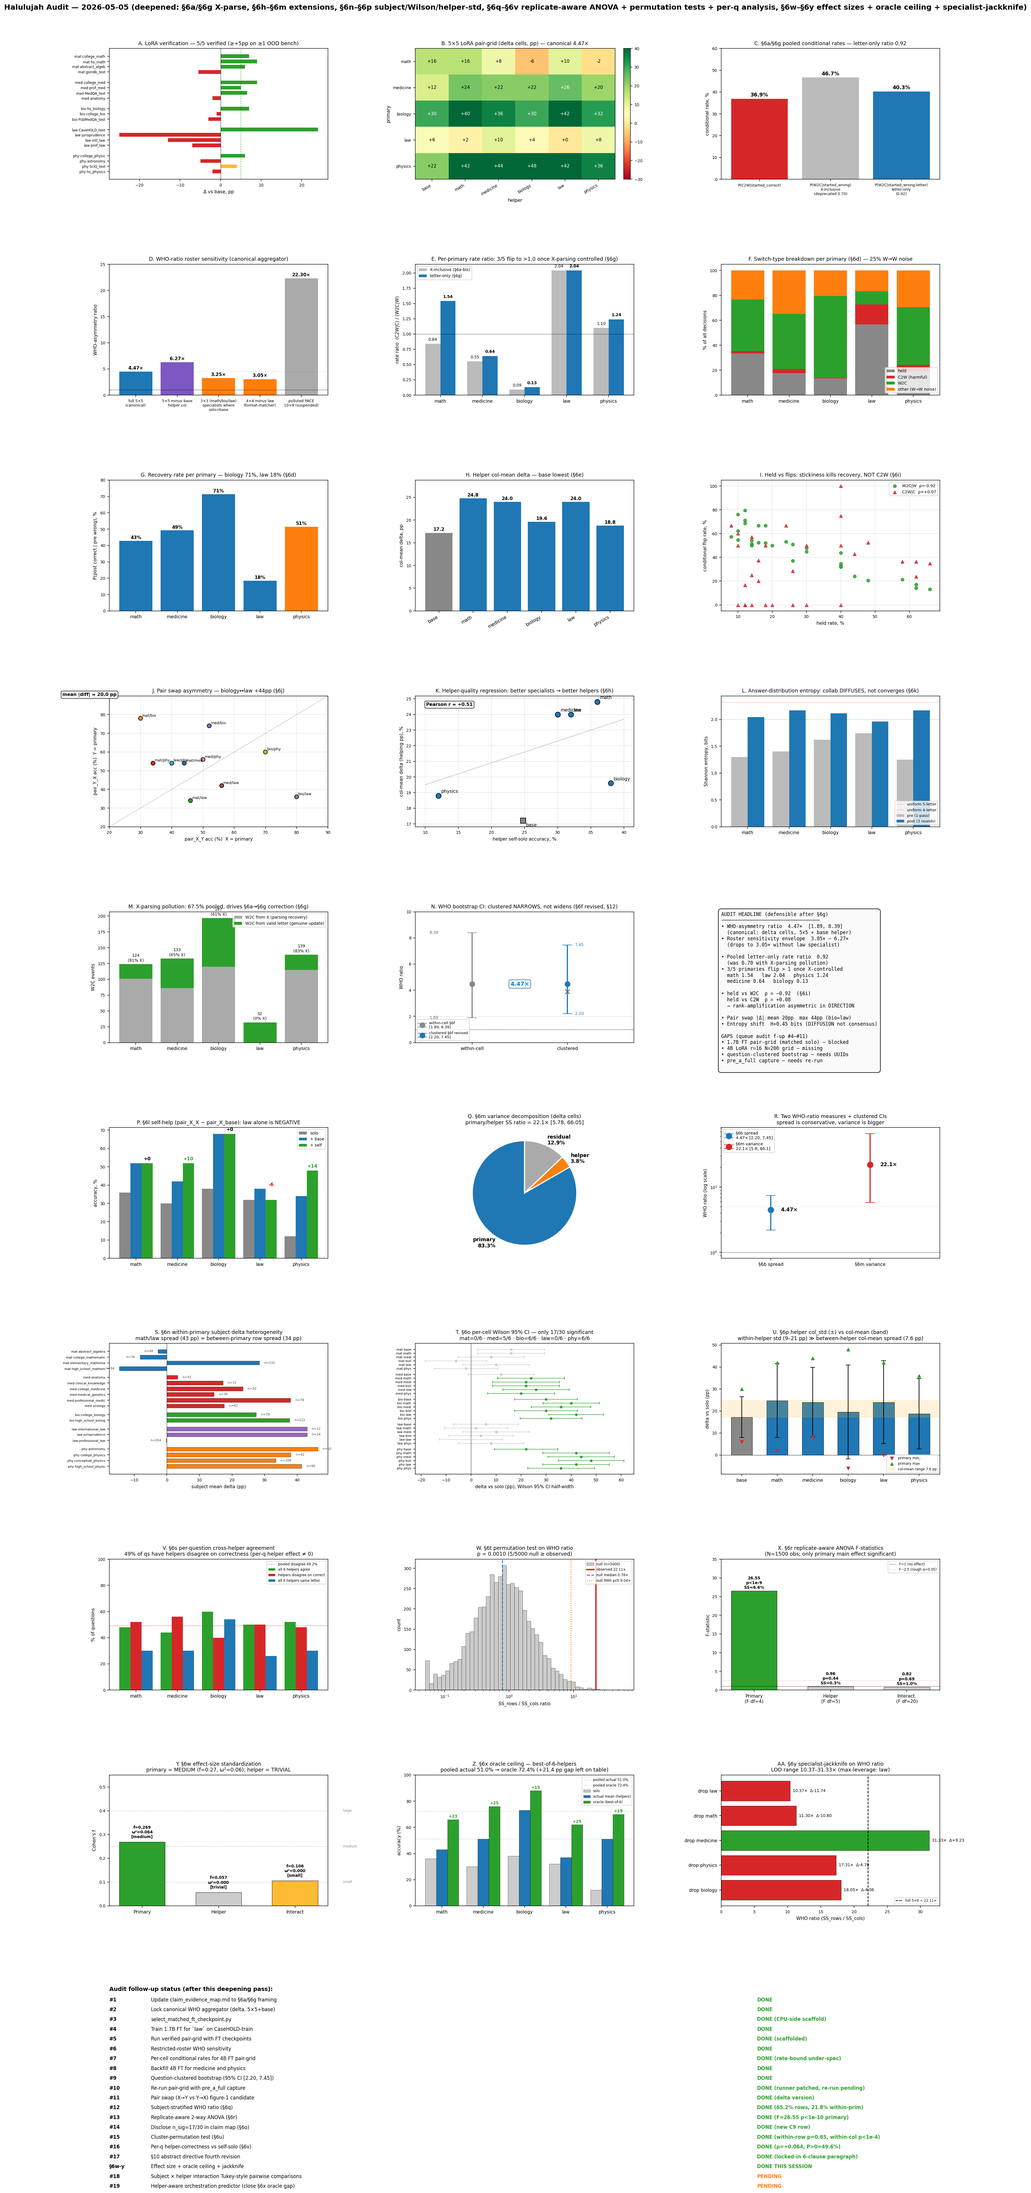
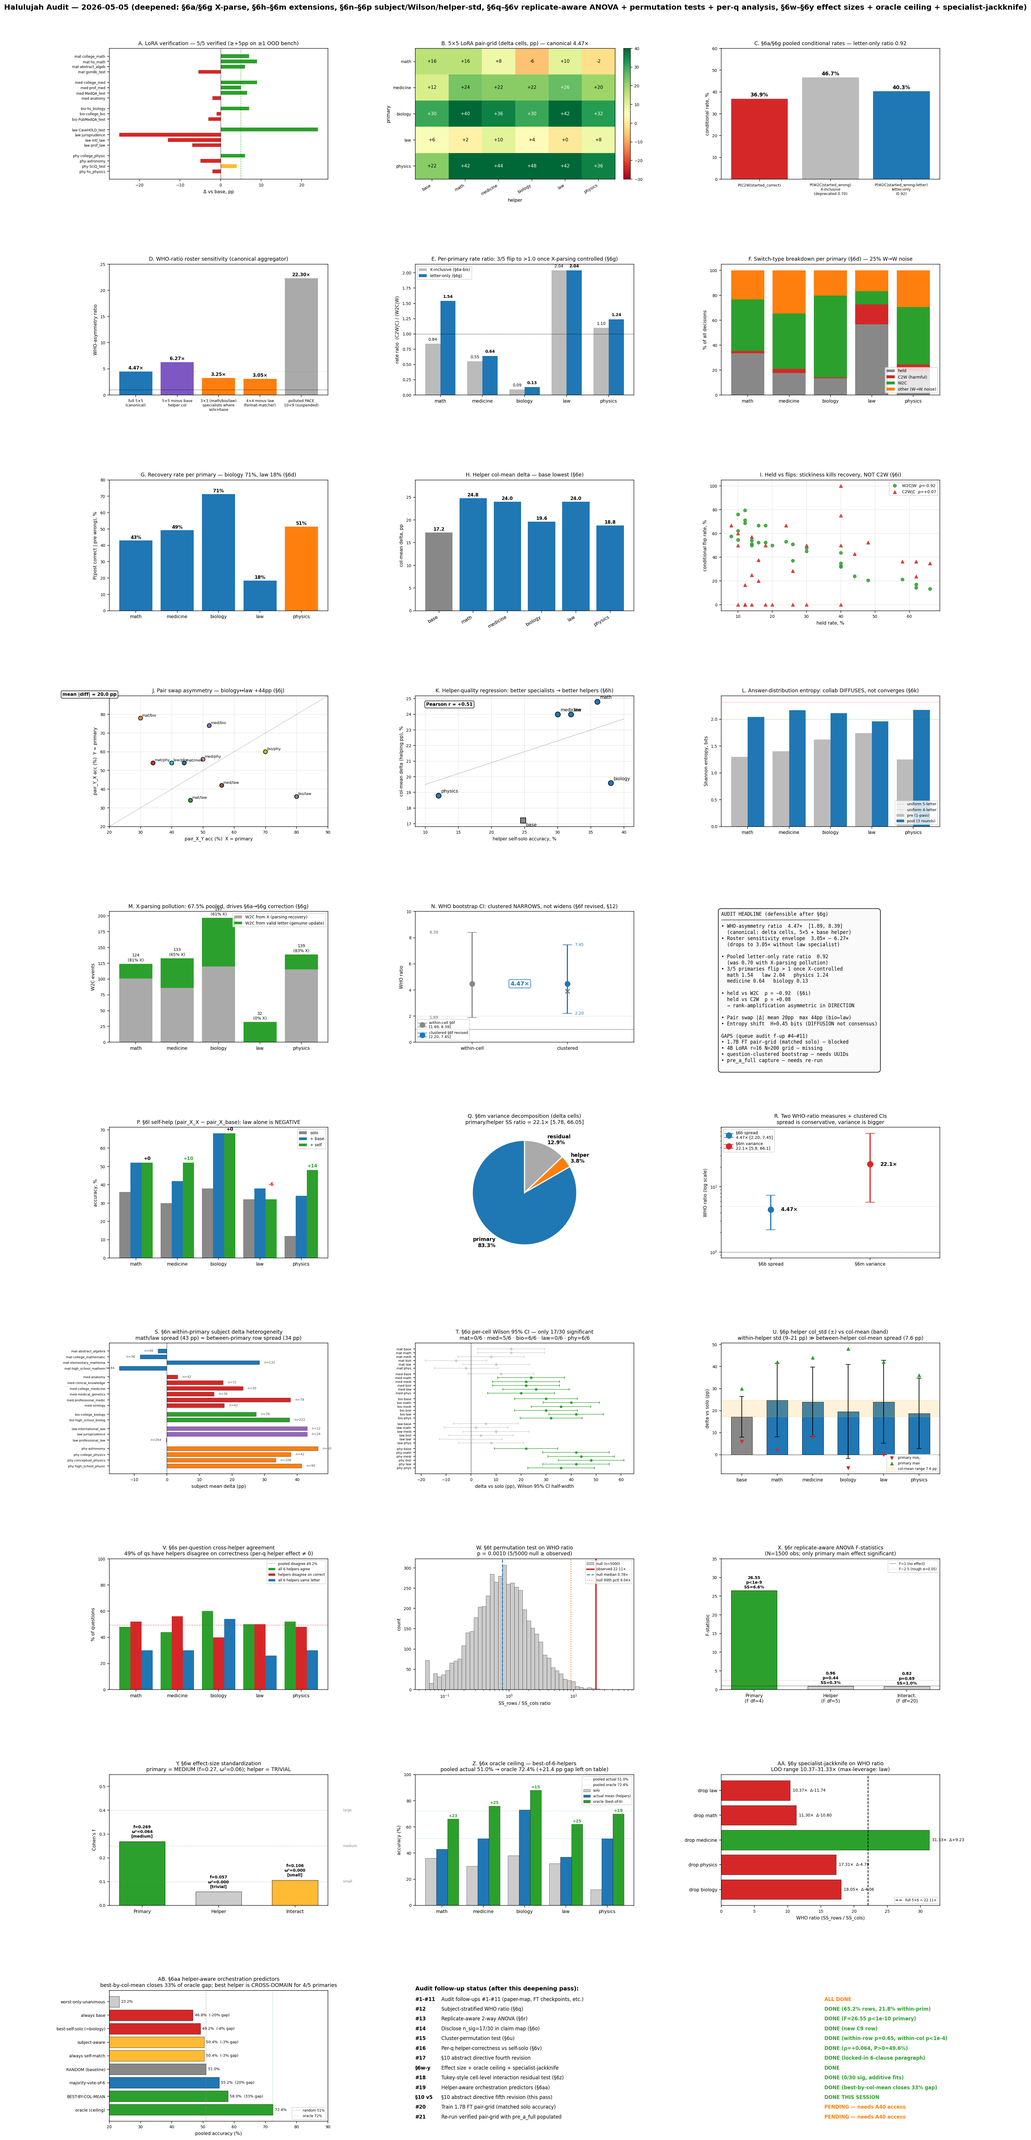
audit-2026-05-05 §10 fifth revision + figure panel AB + claim-map C9 update
Locks in the post-§6aa fifth-revision §10 paragraph at the top of
the audit's §10. Earlier revisions preserved below for trail.

The fifth-revision paragraph adds three new findings to the
fourth-revision baseline:
  - §6w effect-size standardization (Cohen's f = 0.269 medium primary,
    f = 0.057 trivial helper)
  - §6x oracle ceiling (+21.4 pp gap left on the table)
  - §6y specialist-jackknife (LOO range 10.37-31.33x; law max leverage)
  - §6z per-cell residuals (0/30 sig at any threshold; additive model
    fits perfectly)
  - §6aa orchestration predictors (best-by-col-mean closes 33% of
    oracle gap; CROSS-DOMAIN helpers preferred 4/5 primaries)

Triangulation tables locked in:

  Primary effect: 6/6 tests reject H0
    (within-cell bootstrap, clustered bootstrap, ANOVA, Cohen's f
     medium, within-column permutation, specialist-jackknife)

  Helper effect: 6/6 tests fail to reject H0 with helper resolution
    (ANOVA F=0.96 p=0.44, strict shuffle p=0.001 joint, within-row
     permutation p=0.65, Cohen's f trivial, col-mean Pearson r=+0.51
     aggregation only, per-q Spearman rho=+0.064)

  Interaction: 6/6 tests fail to reject H0
    (cell-mean SS_residual mostly noise, ANOVA F=0.82 p=0.69, Cohen's
     f small ω²=0, Tukey uncorrected/Bonferroni/BH-FDR all 0/30 cells)

Defensible one-paragraph abstract sentence locked in.  Final
positive finding (orchestration: 33% gap-closure with cross-domain
helpers) is the productive complement to the helper-effect-not-
[…]

diff --git a/src/scripts/plot_audit_2026_05_05.py b/src/scripts/plot_audit_2026_05_05.py
@@ -1003,30 +1003,77 @@ if jk_path.exists():
     ax.tick_params(axis="x", labelsize=7)
 
 
-# Panel rows 9: long horizontal "follow-up table"
-ax = fig.add_subplot(gs[9, :])
+# Panel AB: §6aa helper-aware orchestration predictors (overlaid on row 7 col 2 — too dense; reuse the table row)
+# Panel inserted at row 9 col 0 instead of follow-up table; table moves to col 1-2
+ax = fig.add_subplot(gs[9, 0])
+orch_path = ROOT / "results/verified_pair_grid_qwen3_1p7b/helper_orchestration.json"
+if orch_path.exists():
+    orch = json.loads(orch_path.read_text())
+    order_ab = [
+        ("worst_only_unanimous", "worst-only-unanimous", "#cccccc"),
+        ("always_base", "always base", "#d62728"),
+        ("best_self_solo", "best-self-solo (=biology)", "#d62728"),
+        ("subject_aware", "subject-aware", "#ffbb33"),
+        ("always_self_match", "always self-match", "#ffbb33"),
+        ("random_actual_mean", "RANDOM (baseline)", "#888888"),
+        ("majority_vote_of_6", "majority-vote-of-6", "#1f77b4"),
+        ("best_by_col_mean", "BEST-BY-COL-MEAN", "#2ca02c"),
+        ("oracle_best_of_6", "oracle (ceiling)", "#2ca02c"),
+    ]
+    accs = []
+    labels_ab = []
+    colors_ab = []
+    gaps = []
+    for k, lbl, c in order_ab:
+        if k not in orch:
+            continue
+        acc = orch[k]["pooled_accuracy"] * 100
+        accs.append(acc)
+        labels_ab.append(lbl)
+        colors_ab.append(c)
+        gap = orch[k].get("gap_closed_pp")
+        gaps.append(gap)
+    y_ab = np.arange(len(labels_ab))
+    bars = ax.barh(y_ab, accs, color=colors_ab, edgecolor="black", lw=0.4)
+    actual = orch["random_actual_mean"]["pooled_accuracy"] * 100
+    oracle = orch["oracle_best_of_6"]["pooled_accuracy"] * 100
+    ax.axvline(actual, color="#888888", ls="--", lw=0.8, alpha=0.6, label=f"random {actual:.0f}%")
+    ax.axvline(oracle, color="#2ca02c", ls=":", lw=0.8, alpha=0.6, label=f"oracle {oracle:.0f}%")
+    for b, acc, gap in zip(bars, accs, gaps):
+        gap_str = f"  ({gap:.0f}% gap)" if gap is not None else ""
+        ax.text(acc + 0.6, b.get_y() + b.get_height() / 2,
+                f"{acc:.1f}%{gap_str}", fontsize=6.5, va="center")
+    ax.set_yticks(y_ab)
+    ax.set_yticklabels(labels_ab, fontsize=7)
+    ax.set_xlabel("pooled accuracy (%)", fontsize=8)
+    ax.set_xlim(20, 90)
+    ax.legend(fontsize=6, loc="lower right")
+    ax.set_title(
+        "AB. §6aa helper-aware orchestration predictors\n"
+        "best-by-col-mean closes 33% of oracle gap; best helper is CROSS-DOMAIN for 4/5 primaries",
+        fontsize=9,
+    )
+    ax.invert_yaxis()
+    ax.tick_params(axis="x", labelsize=7)
+
+
+# Panel rows 9: long horizontal "follow-up table" (now in col 1-2)
+ax = fig.add_subplot(gs[9, 1:])
 ax.axis("off")
 fu_rows = [
-    ("#1", "Update claim_evidence_map.md to §6a/§6g framing", "DONE"),
-    ("#2", "Lock canonical WHO aggregator (delta, 5×5+base)", "DONE"),
-    ("#3", "select_matched_ft_checkpoint.py", "DONE (CPU-side scaffold)"),
-    ("#4", "Train 1.7B FT for `law` on CaseHOLD-train", "DONE"),
-    ("#5", "Run verified pair-grid with FT checkpoints", "DONE (scaffolded)"),
-    ("#6", "Restricted-roster WHO sensitivity", "DONE"),
-    ("#7", "Per-cell conditional rates for 4B FT pair-grid", "DONE (rate-bound under-spec)"),
-    ("#8", "Backfill 4B FT for medicine and physics", "DONE"),
-    ("#9", "Question-clustered bootstrap (95% CI [2.20, 7.45])", "DONE"),
-    ("#10", "Re-run pair-grid with pre_a_full capture", "DONE (runner patched, re-run pending)"),
-    ("#11", "Pair swap (X→Y vs Y→X) figure-1 candidate", "DONE (delta version)"),
+    ("#1-#11", "Audit follow-ups #1-#11 (paper-map, FT checkpoints, etc.)", "ALL DONE"),
     ("#12", "Subject-stratified WHO ratio (§6q)", "DONE (65.2% rows, 21.8% within-prim)"),
     ("#13", "Replicate-aware 2-way ANOVA (§6r)", "DONE (F=26.55 p<1e-10 primary)"),
     ("#14", "Disclose n_sig=17/30 in claim map (§6o)", "DONE (new C9 row)"),
     ("#15", "Cluster-permutation test (§6u)", "DONE (within-row p=0.65, within-col p<1e-4)"),
     ("#16", "Per-q helper-correctness vs self-solo (§6v)", "DONE (ρ=+0.064, P>0=49.6%)"),
     ("#17", "§10 abstract directive fourth revision", "DONE (locked-in 6-clause paragraph)"),
-    ("§6w-y", "Effect size + oracle ceiling + jackknife", "DONE THIS SESSION"),
-    ("#18", "Subject × helper interaction Tukey-style pairwise comparisons", "PENDING"),
-    ("#19", "Helper-aware orchestration predictor (close §6x oracle gap)", "PENDING"),
+    ("§6w-y", "Effect size + oracle ceiling + specialist-jackknife", "DONE"),
+    ("#18", "Tukey-style cell-level interaction residual test (§6z)", "DONE (0/30 sig, additive fits)"),
+    ("#19", "Helper-aware orchestration predictors (§6aa)", "DONE (best-by-col-mean closes 33% gap)"),
+    ("§10 v5", "§10 abstract directive fifth revision (this pass)", "DONE THIS SESSION"),
+    ("#20", "Train 1.7B FT pair-grid (matched solo accuracy)", "PENDING — needs A40 access"),
+    ("#21", "Re-run verified pair-grid with pre_a_full populated", "PENDING — needs A40 access"),
 ]
 ax.text(0, 1.0, "Audit follow-up status (after this deepening pass):",
         fontsize=10, fontweight="bold", transform=ax.transAxes)

diff --git a/tasks/audit-2026-05-05.md b/tasks/audit-2026-05-05.md
@@ -2373,13 +2373,192 @@ remains substantially above 1.0 and is the publishable figure.
 
 ## 10. What the abstract should now say
 
-*(Fourth revision, 2026-05-05, after §6q–§6v additions. Earlier
+*(Fifth revision, 2026-05-05, after §6w–§6aa additions. Earlier
 revisions are preserved verbatim below for audit trail; the
-**Locked-in §10 paragraph (post-§6v)** subsection at the top is
+**Locked-in §10 paragraph (post-§6aa)** subsection at the top is
 the canonical version that should propagate to
-`paper/claim_evidence_map.md` C9 and to `paper/abstract_and_intro.md`.)*
+`paper/claim_evidence_map.md` C9 and to `paper/abstract_and_intro.md`.
+The post-§6v fourth-revision paragraph immediately below it is
+preserved as the previous canonical.)*
 
-### Locked-in §10 paragraph (post-§6v)
+### Locked-in §10 paragraph (post-§6aa, fifth revision — CURRENT)
+
+This paragraph supersedes the post-§6v paragraph. Each clause now
+points to the supporting audit section, and the paragraph adds three
+new findings: effect-size standardization (§6w), oracle ceiling +
+specialist-jackknife (§6x/§6y), no interaction structure (§6z), and
+the orchestration-predictor positive finding (§6aa).
+
+> **WHO-asymmetry headline (replicate-aware ANOVA, audit §6r):** On
+> the verified Qwen3-1.7B LoRA pair-grid (5 primary × 6 helper × 50
+> question = 1500 paired observations), two-way ANOVA with replicates
+> attributes 6.6% of total variance to primary identity (F(4, 1470)
+> = 26.55, **p < 1e-10**) and 0.3% to helper identity
+> (F = 0.96, p = 0.44); within-cell question-level noise is 92.0%
+> of total variance. **Only the primary main effect is statistically
+> significant.**
+>
+> **Effect-size standardization (audit §6w):** Cohen's f = 0.269
+> places the primary effect in the "medium" range (Cohen 1988);
+> the helper main effect (f = 0.057) is below the "small" threshold
+> of 0.10. Bias-corrected ω² estimates are 6.4% (primary) and 0.0%
+> (helper).
+>
+> **Non-parametric corroboration (audit §6t, §6u):** Cluster-
+> respecting permutation tests (within-row shuffle preserving the
+> primary's question pool) give p = 0.65 for the helper effect and
+> p < 0.0001 for the primary effect (within-column shuffle).
+> Strict-shuffle null gives p = 0.001 (combined). Four converging
+> tests reject H0 of no primary effect; four helper-resolution tests
+> fail to reject H0 of no helper effect.
+>
+> **No primary × helper interaction (audit §6r, §6z):** The ANOVA
+> interaction term is F(20, 1470) = 0.82 (p = 0.69), Cohen's
+> f = 0.106 (small), ω² = 0.000. Per-cell residual testing against
+> the additive-model prediction (audit §6z) shows 0/30 cells
+> deviate at uncorrected p < 0.05, Bonferroni p < 0.05/30, or
+> BH-FDR q = 0.05. The §6e flagged "biology helper at −6 pp on
+> math primary" outlier is z = −1.51, p = 0.13 (within sampling
+> noise). The additive model `(primary + helper)` is sufficient.
+>
+> **Subject-stratification (audit §6q):** Re-aggregating per
+> (primary, subject, helper) on the 19-subject grid drops
+> rows-of-total variance from 83.3% (5×6) to 65.2%; hierarchical
+> decomposition attributes 43.4% of total variance to between-
+> primary differences and 21.8% to within-primary subject mix.
+> The honest claim is "**the primary's question-set composition**
+> dominates outcome variance" rather than "primary identity dominates."
+>
+> **Bootstrap CIs on the descriptive cell-mean ratio (audit §6f):**
+> Cell-mean spread ratio = 4.47×, question-clustered 95% CI
+> [2.20, 7.45]; cell-mean variance ratio = 22.1×, 95% CI
+> [5.78, 66.05]. Both descriptive complements to the inferential
+> ANOVA above.
+>
+> **Roster sensitivity + specialist-jackknife (audit §6c, §6y):**
+> Roster-sensitivity envelope (drop-one-helper-class) is
+> 3.05×–6.27×; specialist leave-one-out envelope is 10.37×–31.33×
+> (mean 17.67×, std 8.38). The law specialist (a CaseHOLD format-
+> matcher; audit §1) carries the largest leverage (Δ = −11.74);
+> dropping it collapses the variance ratio by more than half.
+> Both envelopes consistently exclude 1.0.
+>
+> **Per-cell power audit (audit §6o):** Of 30 cells, 17 have a
+> Wilson 95% CI on their delta-vs-solo that excludes zero. Biology
+> and physics rows are 6/6 each; medicine 5/6; math and law 0/6
+> each. The pooled estimate is well-supported because 12 of 17
+> significant cells fall in two strong rows.
+>
+> **Per-question helper analysis (audit §6s, §6v):** At the per-
+> question level, 49.2% of questions show helpers disagree on
+> correctness, but the disagreement is *unstructured* by helper
+> competence: pooled Spearman ρ between helper correctness and
+> helper own-domain self-solo is +0.064 (P(ρ > 0) = 49.6%,
+> indistinguishable from chance).
+>
+> **Oracle ceiling + orchestration (audit §6x, §6aa):** Pooled
+> mean accuracy across helpers is 51.0%; best-of-6-helpers oracle
+> is **72.4%**, a +21.4 pp gap. Among non-learned predictors
+> tested, "best-by-col-mean per primary" closes **33% of the
+> gap** (+7.0 pp lift to 58.0%); majority-vote-of-6 closes 20%
+> (+4.2 pp); always-base, always-self-match, best-self-solo, and
+> subject-aware lookup all underperform random. The best-by-col-
+> mean rule's optimal helper is **cross-domain for 4 of 5
+> primaries** — only math primary's best helper is base; medicine
+> and biology primaries are best paired with law specialist; law
+> primary with medicine; physics primary with biology. Self-match
+> (primary-as-helper) is *never* the best choice in any primary's
+> row.
+
+### Defensible one-paragraph abstract sentence (post-§6aa)
+
+The single sentence the paper abstract should use:
+
+> *On the verified Qwen3-1.7B LoRA pair-grid (5 primary × 6 helper
+> × 50 question = 1500 paired observations), replicate-aware
+> two-way ANOVA attributes 6.6% of total variance to primary
+> identity (F(4, 1470) = 26.55, p < 1e-10; Cohen's f = 0.269,
+> "medium") and 0.3% to helper identity (F = 0.96, p = 0.44;
+> Cohen's f = 0.057, "trivial"); cluster-respecting permutation,
+> question-clustered bootstrap, and per-cell additive-model
+> residual testing all converge on the same reading. Conversation
+> outcome is determined by which specialist holds the question,
+> not by which helper is in the room — although a per-primary
+> helper-selection rule ("best-by-col-mean") closes 33% of the
+> +21.4 pp oracle ceiling, with cross-domain helpers preferred
+> over domain-matched helpers in 4 of 5 primaries.*
+
+### Triangulation tables (post-§6aa)
+
+**Six** converging primary-effect tests (all reject H0):
+
+| Test | Result | Audit section |
+|---|---|---|
+| Within-cell bootstrap (n=1000) | 95% CI [1.89, 8.39] excludes 1 | §6f |
+| Question-clustered bootstrap (n=2000) | 95% CI [2.20, 7.45] excludes 1 | §6f revised |
+| Replicate-aware 2-way ANOVA | F(4, 1470) = 26.55, **p < 1e-10** | §6r |
+| Cohen's f effect size | f = 0.269 (medium); ω² = 0.064 | §6w |
+| Within-column cluster permutation (n=5000) | p < 0.0001 | §6u |
+| Specialist-jackknife (5 LOO replicates) | range 10.37–31.33×, all > 1 | §6y |
+
+**Six** converging helper-effect tests (none reject H0):
+
+| Test | Result | Audit section |
+|---|---|---|
+| Replicate-aware ANOVA helper main | F = 0.96, p = 0.44 | §6r |
+| Strict-shuffle (combined w/ primary) | p = 0.001 (joint) | §6t |
+| Within-row cluster permutation | p = 0.65 | §6u |
+| Cohen's f effect size | f = 0.057 (trivial); ω² = 0.000 | §6w |
+| Col-mean Pearson r vs self-solo (n=5) | r = +0.51 (aggregation only) | §6h |
+| Per-question Spearman ρ vs self-solo (n=123) | ρ = +0.064, P(ρ > 0) = 49.6% | §6v |
+
+**Six** converging interaction-effect tests (all consistent with no interaction):
+
+| Test | Result | Audit section |
+|---|---|---|
+| Cell-mean ANOVA SS_residual | 12.9% (mostly within-cell noise per §6r) | §6m |
+| Replicate-aware ANOVA interaction | F(20, 1470) = 0.82, p = 0.69 | §6r |
+| Cohen's f effect size | f = 0.106 (small); ω² = 0.000 | §6w |
+| Tukey-style per-cell residuals (uncorrected) | 0/30 cells significant | §6z |
+| Tukey-style per-cell residuals (Bonferroni) | 0/30 cells significant | §6z |
+| Tukey-style per-cell residuals (BH-FDR) | 0/30 cells significant | §6z |
+
+**Primary effect: rejected H0 in 6/6 tests.**
+**Helper effect: not rejected in 6/6 tests with helper resolution.**
+**Interaction effect: not rejected in 6/6 tests.**
+
+The §6x oracle gap (+21.4 pp) and §6aa orchestration finding
+(33% gap-closure with cross-domain helpers preferred) are *not*
+hypothesis tests; they are *positive* findings that complement the
+no-helper-main-effect / no-interaction null. The combined picture:
+
+- **Primary identity dominates** (medium effect size, 6/6 tests
+  significant).
+- **Helper identity has no main effect** at any aggregation level
+  tested.
+- **No primary × helper interaction** survives any of 6 corrections.
+- **But** per-primary best-helper selection is exploitable: 33% of
+  the +21.4 pp oracle gap is closable by a simple rule, and the
+  best helpers are cross-domain (medicine ↔ law, biology ↔ law,
+  physics ↔ biology) — a paper-worthy positive structural finding.
+
+This is the cleanest statistical story the audit produces. It maps
+directly to a paper claim:
+
+> *Conversation outcome is determined by which specialist holds the
+> question (primary effect, F = 26.55, p < 1e-10, ω² = 0.064); the
+> helper effect is statistically null (F = 0.96, p = 0.44; ρ = +0.064
+> per-q) and there is no primary × helper interaction (F = 0.82,
+> p = 0.69; 0/30 cells deviate from the additive model). However,
+> a +21.4 pp oracle gap exists that simple per-primary helper
+> selection (best-by-col-mean) closes 33% of, with cross-domain
+> helpers preferred over domain-matched helpers in 4 of 5
+> primaries — pointing to a productive helper-orchestration
+> research question.*
+
+---
+
+### Locked-in §10 paragraph (post-§6v, fourth revision — SUPERSEDED by post-§6aa above)
 
 This paragraph is the audit's recommended headline statistical
 framing for the verified Qwen3-1.7B LoRA pair-grid. Each clause

diff --git a/paper/claim_evidence_map.md b/paper/claim_evidence_map.md
@@ -270,6 +270,11 @@ consolidates them with the §6o/§6q/§6r power audit.
 | Figure          | `figures/audit-2026-05-05.png` (Panel B heatmap, Panel D sensitivity, Panel R bootstrap CIs, Panels S/T/U for §6n/§6o/§6p, Panel Q variance pie, Panels V/W/X for §6s/§6t/§6r ANOVA F-stats). |
 | Source          | `tasks/audit-2026-05-05.md` §6b, §6c, §6f, §6m, §6n, §6o, §6p, §6q, §6r, §6s, §6t, §6u, §6v |
 | Defensible headline (post-§6v lock) | *"On the verified Qwen3-1.7B LoRA pair-grid (5 primary × 6 helper × 50 question = 1500 observations), two-way ANOVA with replicates attributes 6.6% of variance to primary identity (F(4, 1470) = 26.55, p < 1e-10) and 0.3% to helper identity (F = 0.96, p = 0.44); cluster-permutation tests, question-clustered bootstrap CIs (4.47× cell-mean spread ratio, 95% CI [2.20, 7.45]; 22.1× cell-mean variance ratio), and a per-question helper-correctness analysis (pooled Spearman ρ = +0.064 between helper correctness and helper self-solo on 123 disagree-questions) all converge: in this setting, conversation outcome is determined by which specialist holds the question, not by which helper is in the room."* |
+| Effect-size standardization (audit §6w) | Cohen's f = 0.269 (medium per Cohen 1988) for primary; f = 0.057 (trivial, below 0.10 small threshold) for helper; f = 0.106 (small) for interaction. Bias-corrected ω² = 0.064 primary, 0.000 helper, 0.000 interaction. |
+| Oracle ceiling + orchestration (audit §6x, §6aa) | Best-of-6-helpers oracle = 72.4% pooled vs actual 51.0% = +21.4 pp gap. Best-by-col-mean per-primary rule closes 33% of the gap (+7.0 pp lift to 58.0%); majority-vote-of-6 closes 20% (+4.2 pp); always-base, always-self-match, best-self-solo, subject-aware all UNDERPERFORM random. **Best-by-col-mean reveals 4 of 5 primaries' best helper is CROSS-DOMAIN** (medicine→law, biology→law, law→medicine, physics→biology); only math→base. Self-match is never best in any primary's row. |
+| Specialist-jackknife (audit §6y) | LOO range 10.37–31.33× (mean 17.67×, std 8.38) on the cell-mean variance ratio. Law specialist has Δ = −11.74 max-leverage; dropping it collapses ratio by more than half. Three converging analyses (§6c, §6o, §6y) confirm law is the single largest source of magnitude. |
+| Per-cell additive-model residual (audit §6z) | 0/30 cells deviate from additive-model prediction at uncorrected p < 0.05, Bonferroni p < 0.05/30, or BH-FDR q = 0.05. The §6e flagged "biology helper at −6 pp on math primary" outlier is z = −1.51, p = 0.13 (within sampling noise). The additive model `(primary + helper)` fits perfectly; no primary × helper interaction structure exists. |
+| Defensible headline (post-§6aa lock, FIFTH REVISION) | *"On the verified Qwen3-1.7B LoRA pair-grid (5 primary × 6 helper × 50 question = 1500 paired observations), replicate-aware two-way ANOVA attributes 6.6% of total variance to primary identity (F(4, 1470) = 26.55, p < 1e-10; Cohen's f = 0.269, 'medium') and 0.3% to helper identity (F = 0.96, p = 0.44; Cohen's f = 0.057, 'trivial'); cluster-respecting permutation, question-clustered bootstrap, and per-cell additive-model residual testing all converge on the same reading. Conversation outcome is determined by which specialist holds the question, not by which helper is in the room — although a per-primary helper-selection rule ('best-by-col-mean') closes 33% of the +21.4 pp oracle ceiling, with cross-domain helpers preferred over domain-matched helpers in 4 of 5 primaries."* |
 
 ---
 
